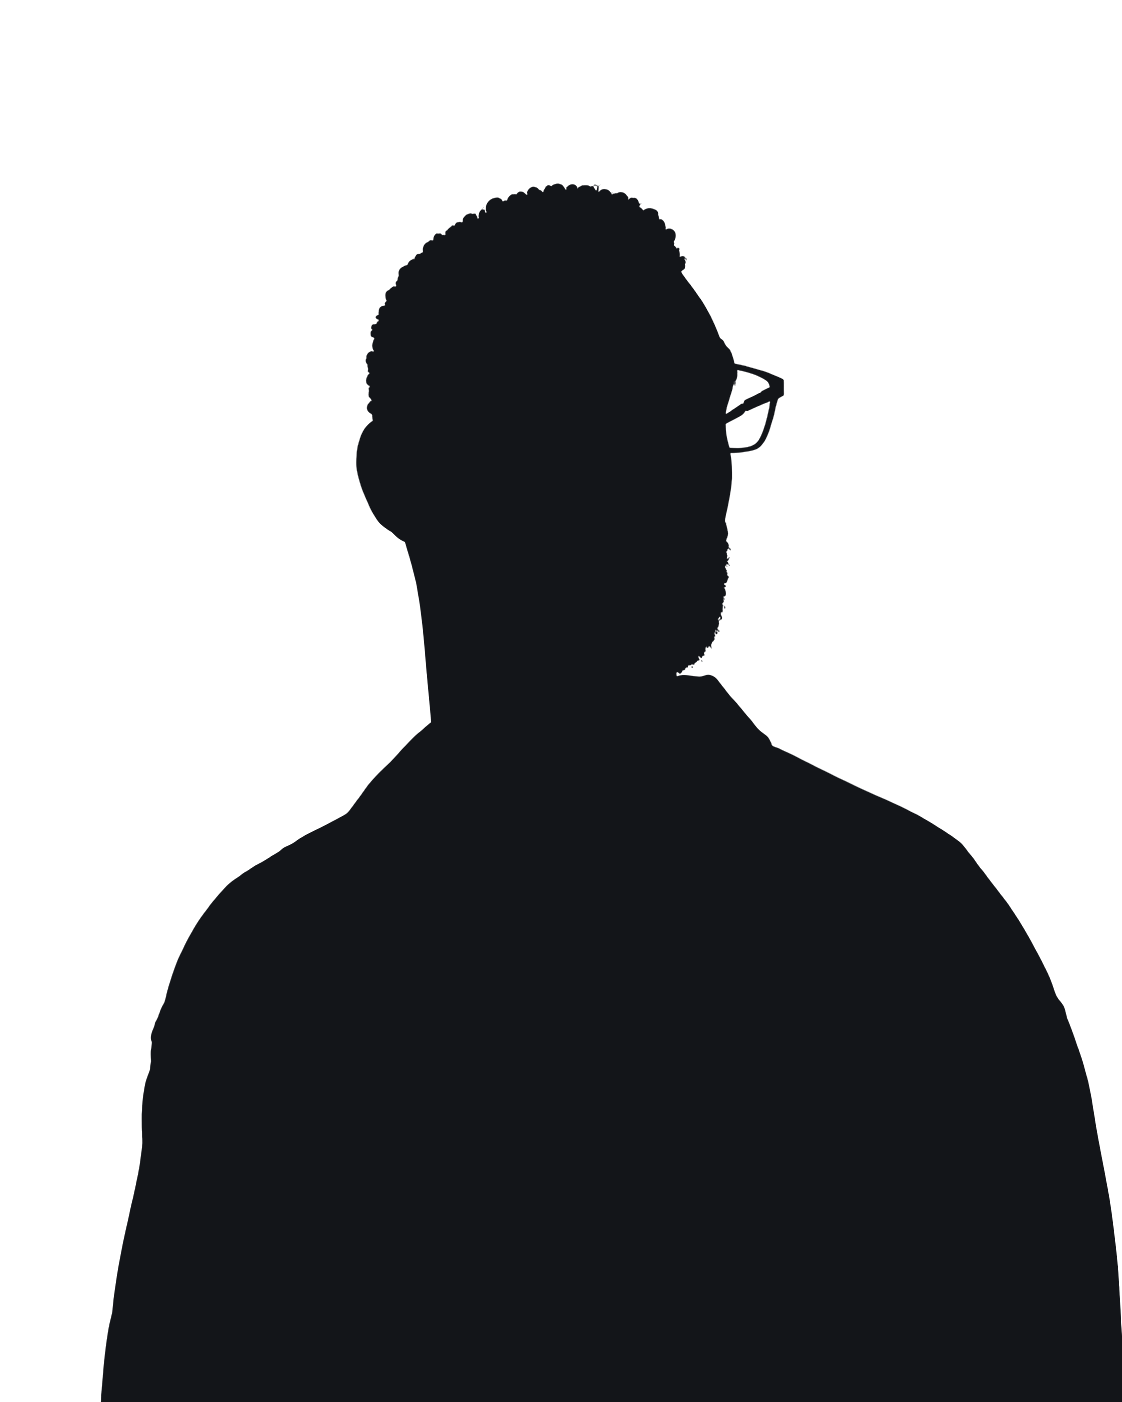
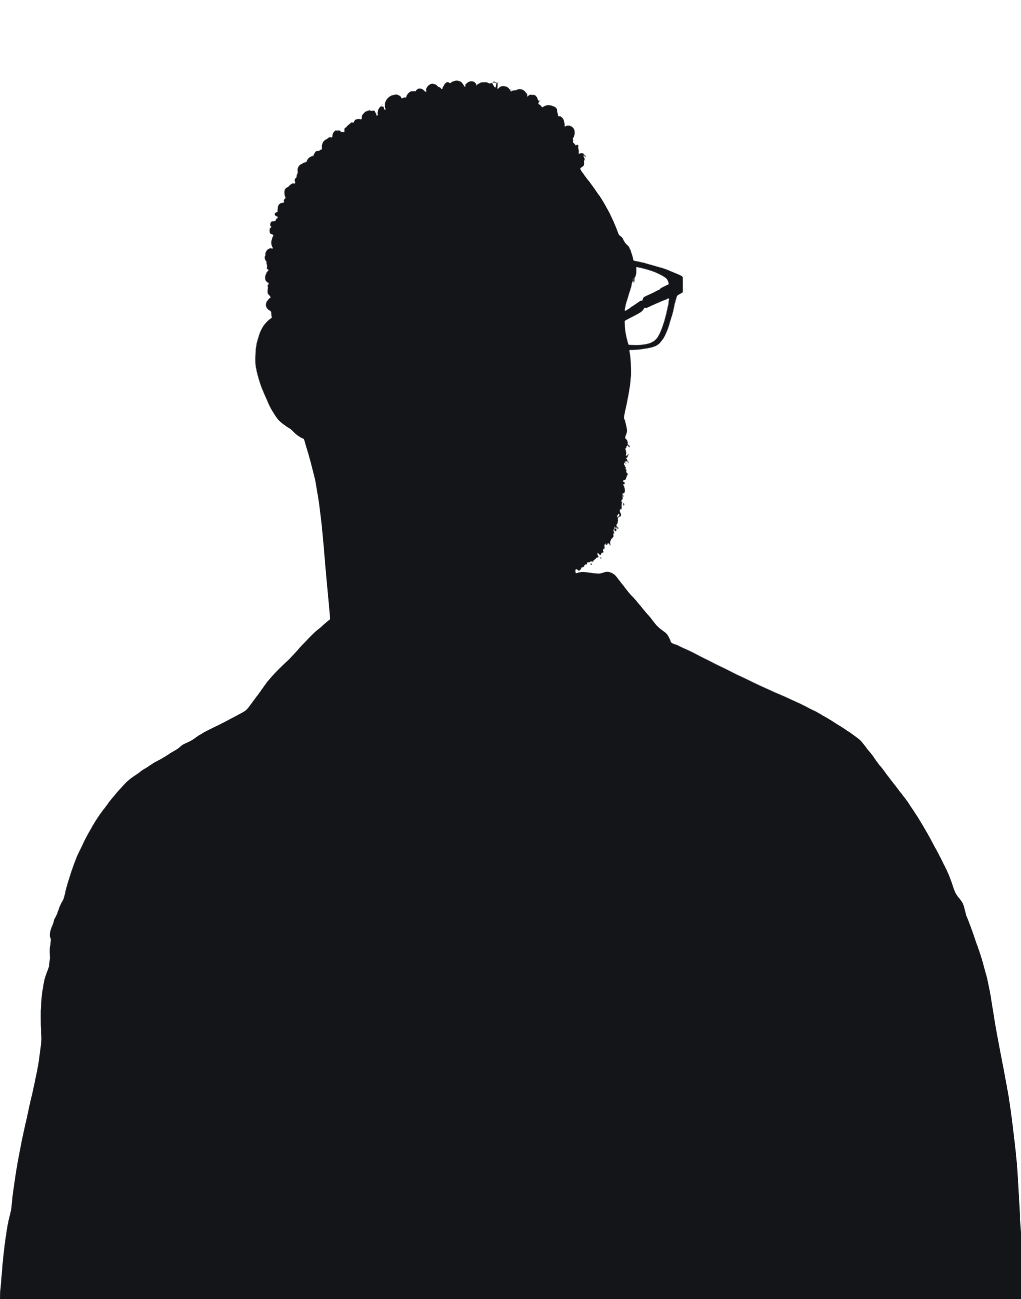
feat: silhueta mais alta e asteriscos nas funções (#6)
- recorta as margens vazias da silhueta para ela subir e ocupar a mesma
  área da original
- troca círculo, quadrado, triângulo e cruz das quatro funções por asterisco

Claude-Session: https://claude.ai/code/session_01UFW39ndj2drbkdKs2xwbv6

diff --git a/index.html b/index.html
@@ -74,10 +74,10 @@
         <div class="roles__win">
           <p class="roles__ln roles__your" data-your aria-hidden="true"><span class="im2">Sou</span> <span class="y" data-your-word>seu</span><span class="caret caret--your"><i class="caret__bar"></i></span></p>
           <ol class="roles__list">
-            <li class="roles__ln" data-role="0" data-ink="inchiostro" data-mark="arancio" data-ground="carta"><span class="a">Diretor</span> <span class="b">Criativo<svg class="glyph" viewBox="0 0 40 40" aria-hidden="true"><circle cx="20" cy="20" r="16"/></svg></span></li>
-            <li class="roles__ln" data-role="1" data-ink="carta" data-mark="arancio" data-ground="inchiostro"><span class="a">Diretor</span> <span class="b">de Arte<svg class="glyph" viewBox="0 0 40 40" aria-hidden="true"><rect x="5" y="5" width="30" height="30"/></svg></span></li>
-            <li class="roles__ln" data-role="2" data-ink="inchiostro" data-mark="carta" data-ground="arancio"><span class="a">Web</span> <span class="b">Designer<svg class="glyph" viewBox="0 0 40 40" aria-hidden="true"><path d="M20 3 L37 35 H3 Z"/></svg></span></li>
-            <li class="roles__ln" data-role="3" data-ink="carta" data-mark="arancio" data-ground="cobalto"><span class="a">Parceiro</span> <span class="b">Criativo<svg class="glyph" viewBox="0 0 40 40" aria-hidden="true"><path d="M20 2 V38 M2 20 H38" class="stroke"/></svg></span></li>
+            <li class="roles__ln" data-role="0" data-ink="inchiostro" data-mark="arancio" data-ground="carta"><span class="a">Diretor</span> <span class="b">Criativo<svg class="glyph" viewBox="0 0 40 40" aria-hidden="true"><path class="stroke" d="M20 3V37M5.3 11.5 34.7 28.5M5.3 28.5 34.7 11.5"/></svg></span></li>
+            <li class="roles__ln" data-role="1" data-ink="carta" data-mark="arancio" data-ground="inchiostro"><span class="a">Diretor</span> <span class="b">de Arte<svg class="glyph" viewBox="0 0 40 40" aria-hidden="true"><path class="stroke" d="M20 3V37M5.3 11.5 34.7 28.5M5.3 28.5 34.7 11.5"/></svg></span></li>
+            <li class="roles__ln" data-role="2" data-ink="inchiostro" data-mark="carta" data-ground="arancio"><span class="a">Web</span> <span class="b">Designer<svg class="glyph" viewBox="0 0 40 40" aria-hidden="true"><path class="stroke" d="M20 3V37M5.3 11.5 34.7 28.5M5.3 28.5 34.7 11.5"/></svg></span></li>
+            <li class="roles__ln" data-role="3" data-ink="carta" data-mark="arancio" data-ground="cobalto"><span class="a">Parceiro</span> <span class="b">Criativo<svg class="glyph" viewBox="0 0 40 40" aria-hidden="true"><path class="stroke" d="M20 3V37M5.3 11.5 34.7 28.5M5.3 28.5 34.7 11.5"/></svg></span></li>
           </ol>
         </div>
       </div>
